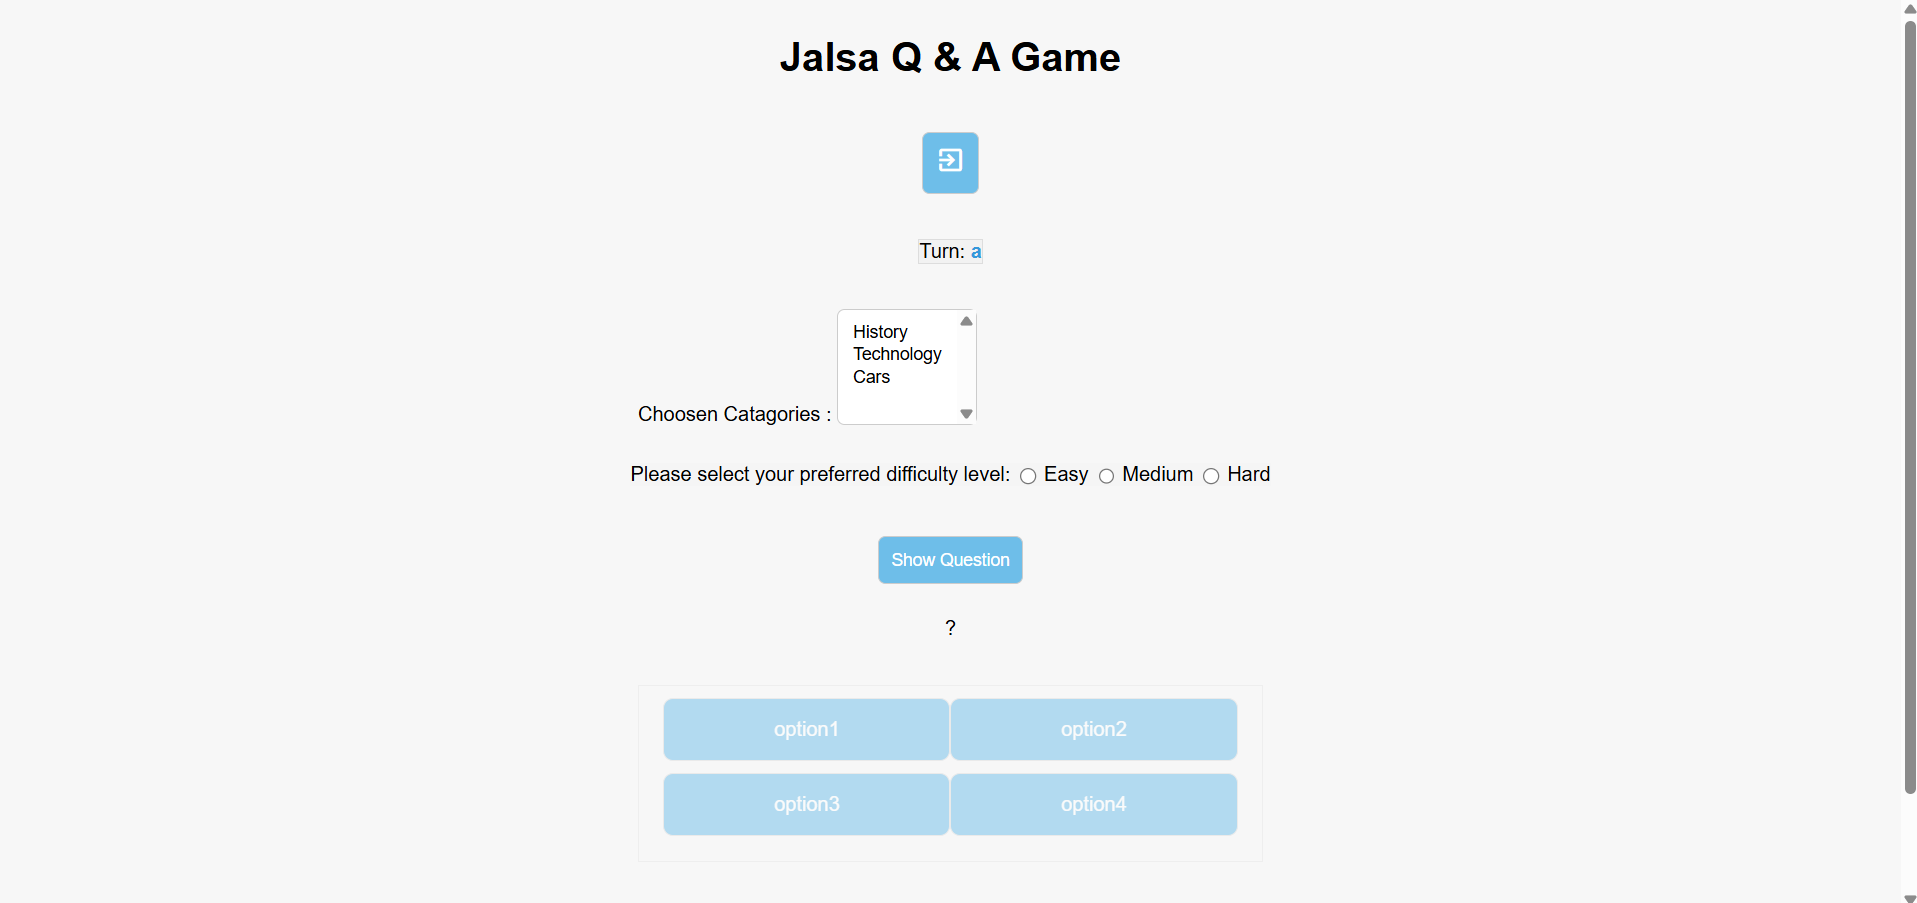
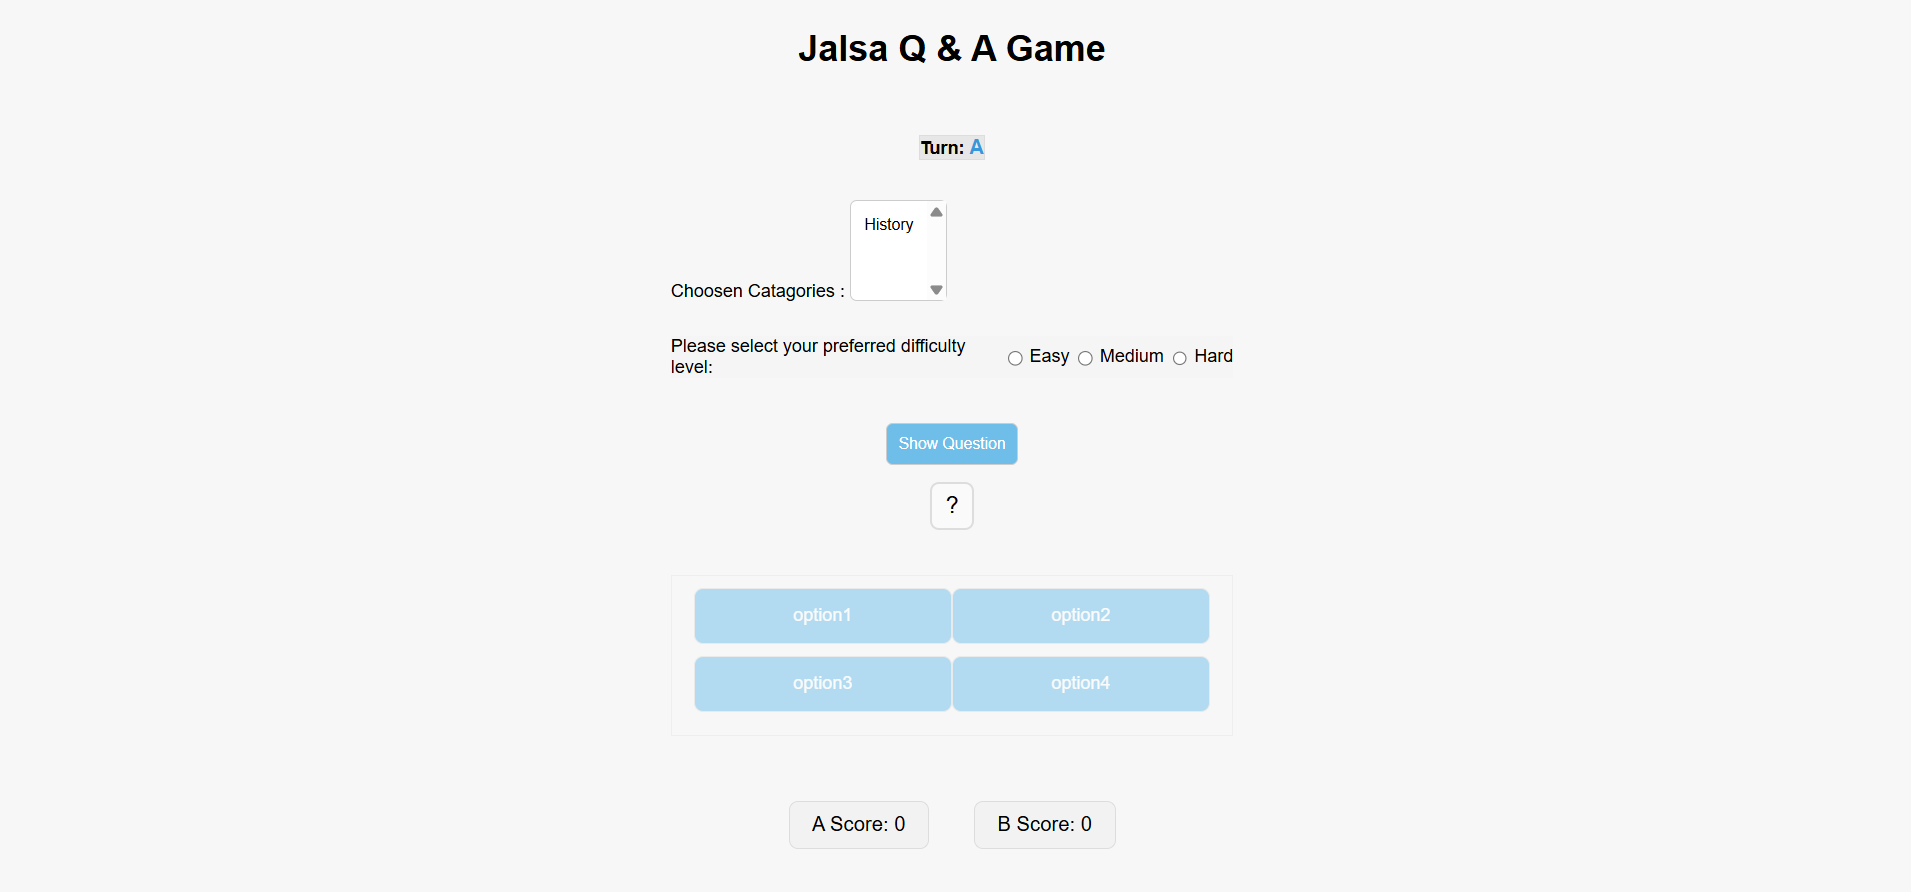
-finalize style- pop-up message- readme.md

diff --git a/js/app.js b/js/app.js
@@ -462,6 +462,7 @@ const gameViewEl = document.querySelector('#game-view')
 
 const landingScreenEl = document.querySelector("#landing-screen")
 
+const messageBox = document.querySelector("#message-box")
 
 /* Functions ---------------------------------------------------*/
 
@@ -502,7 +503,7 @@ if (player1Name.value !== '' && player2Name.value !== '' && selectedValues.lengt
 else {
 
    
-  alert('Please put the names and at least one category to satrt')
+  showMessageBox('Please put the names and at least one category to start')
 
 }
 }
@@ -574,12 +575,12 @@ const getSelectedDifficultyPoints = () => {
 const getQuestionForRound = () => {
 
     if (gameState.round > gameState.totalRounds) {
-    alert("Game is over! Please restart to play again.")
+    showMessageBox("Game is over! Please restart to play again.")
     return
     }
 
   if (!isDifficultySelected()){
-    alert('Please select difficullty level before showing question')
+    showMessageBox('Please select difficullty level before showing question')
     return
     }
 
@@ -592,7 +593,7 @@ const getQuestionForRound = () => {
 
   if (!category) {
 
-    alert('Please choose at least one category')
+    showMessageBox('Please choose at least one category')
 
     return
   }
@@ -600,7 +601,6 @@ const getQuestionForRound = () => {
 
   const questionList = gameData[category][difficulty]
 
-  // filter alredy used questions 
   const availableQuestions = questionList.filter(q =>
   !gameState.usedQuestions[category].includes(q.question)
 )
@@ -637,8 +637,6 @@ if (availableQuestions.length === 0) {
 
   
 }
-
-// the full question with the answer and options is stored in the gamestate.currentQuestion
 
 
 const handleAnswerOptions = (event) => {
@@ -770,7 +768,7 @@ const endGame = () => {
      finalmessage = `It's draw! Both Scored: ${gameState.player1Score} , ${gameState.player2Score} `
   }
 
-  alert(finalmessage)
+  showMessageBox(finalmessage, true)
 
   showQBtn.disabled = true
 
@@ -824,6 +822,21 @@ const resetGame = () => {
   disableOpBtn()
 
   gameState.isGameActive = true
+
+}
+
+
+const showMessageBox = (text, persistent=false) => {
+
+  messageBox.textContent = text
+
+  messageBox.style.display = "block"
+
+  if(!persistent) {
+
+  setTimeout(() => {messageBox.style.display = "none"}, 5000)
+
+  }
 
 }
 

diff --git a/css/style.css b/css/style.css
@@ -22,6 +22,28 @@ h1 {
   text-align: center;
 }
 
+.message-box {
+  background: #ffefc4;
+
+  border: 1px solid #e6c87d;
+
+  padding: 10px 15px;
+
+  margin: 10px 0;
+
+  border-radius: 6px;
+
+  display: none;
+  
+  width: 300px;
+
+  text-align: center;
+
+  font-weight: bold;
+
+  font-size: 18px;
+}
+
 #landing-screen{
  display: flex;
 
@@ -70,8 +92,13 @@ h1 {
 }
 
 #turn-p{
-   border: 1px solid #ddd;  
-   background: #f2f2f2;
+   border: 1px solid #ddd; 
+
+   background: #e7e7e7;
+   
+   font-weight: bold;
+   
+   
 }
 
 #player-turn {
@@ -79,7 +106,11 @@ h1 {
 
     color: #3498db;
 
-    
+    font-size: 18px;
+}
+
+#choosen-categories option {
+  margin: 3px 0;
 }
 
 .options-wrapper {
@@ -151,7 +182,7 @@ button{
 
 .question-wrapper,
 .options-wrapper,
-.Levels,
+.levels,
 .selection-wrapper,
 .names-scores {
     width: 500px;       
@@ -185,19 +216,20 @@ button{
      margin-top: 10px;
 }
 
-.question{
+#question{
+    display: inline-block;
 
     font-size: 20px;
 
     text-align: center;
 
-    border: 2x solid #ddd;
+    border: 2px solid #ddd;
 
-     border-radius: 8px;
+    border-radius: 8px;
 
-    padding: 15px;
+    padding: 8px 12px;
 
-    width: 280px;
+    margin-top: 5px;
 
     background: #fafafa;
 

diff --git a/index.html b/index.html
@@ -19,6 +19,8 @@
 
 <body>
 
+  <div id="message-box" class="message-box"></div>
+
   <section id="landing-screen">
     <div id="start-form" class="start-form">
 

diff --git a/README.md b/README.md
@@ -26,6 +26,7 @@ The game focuses on practicing:
 - Handling user input
 - Updating the interface based on game progress
 - Using Flexbox for layout and spacing
+- preventing reapiting questions
 
 Players select one or more categories and choose a difficulty level. Each question is randomly selected and never repeated during the game.
 
@@ -50,7 +51,7 @@ if (player1Name.value !== '' && player2Name.value !== '' && selectedValues.lengt
     formViewEl.style.display = 'none';
     gameViewEl.classList.add("active");
 } else {
-    alert('Please put the names and at least one category to start');
+    showMessageBox('Please put the names and at least one category to start');
 }
 ```
 This section validates input, saves player names, and switches from the landing screen to the game screen.
@@ -106,13 +107,14 @@ if (gameState.currentPlayer === player1N) {
 playerTurnDisp.textContent = gameState.currentPlayer;
 Rounds increase after each answer:
 
-javascript
+```javascript
 gameState.round += 1;
 setTimeout(checkGameOver, 600);
-5. Ending the Game
+```
+### 5. Ending the Game
 After the set number of rounds, the game evaluates the winner:
 
-javascript
+```javascript
 if (gameState.player1Score > gameState.player2Score) {
     finalmessage = `${player1N} wins with ${gameState.player1Score} points`;
 } else if (gameState.player1Score < gameState.player2Score) {
@@ -121,7 +123,7 @@ if (gameState.player1Score > gameState.player2Score) {
     finalmessage = `It's a draw!`;
 }
 
-alert(finalmessage);
+showMessageBox(finalmessage, true);
 ```
 
 ## Technologies Used
@@ -131,13 +133,11 @@ CSS3 – Layout and Flexbox
 
 JavaScript (ES6) – Game logic and DOM manipulation
 
-GitHub Pages – Deployment
+GitHub– Deployment
 
 ## Future Enhancements
 
 Expanded question categories
-
-Additional players
 
 Animations for correct and incorrect answers
 
@@ -147,4 +147,10 @@ Timer-based rounds
 
 Mobile UI improvements
 
-High-score leaderboard
+score leaderboard
+
+## Atrributios
+MDN web docs
+css-trick flexbox guide 
+GA-resources and past exercises
+web3school tutorials and resources 
